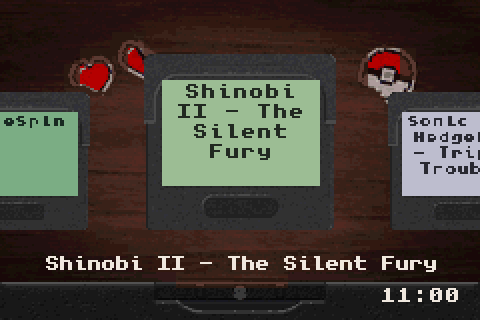
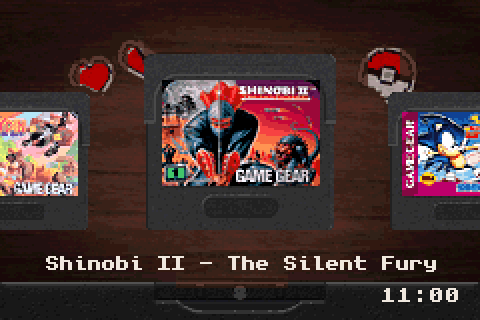
Docs: README as an introduction, details moved to GUIDE.md
The README now introduces the project with labelled screenshots and a
demo animation. Install, usage, other systems, label art, troubleshooting,
the X5 Mini build and how it works live in GUIDE.md.

Claude-Session: https://claude.ai/code/session_01AfjQDoYJ7yx8TtMebTFXRf

Changed region(s): [[0.3125, 0.25, 0.6875, 0.5938], [0.8125, 0.3438, 1.0, 0.625], [0.0, 0.3438, 0.1875, 0.625]]

diff --git a/README.md b/README.md
@@ -1,109 +1,74 @@
-# EverFront
+<h1 align="center">EverFront</h1>
 
-A themeable game shelf for the **EverDrive GBA Pro**. EverFront runs from the SD card as a normal `.gba` file and boots your games with their saves, clock, sensors and the L+R in-game menu. It has two themes, **Slot** and **Shelf**. Besides GBA games it has shelves for **Game Boy, Game Boy Color, NES, Master System and Game Gear**, which run through emulators you supply.
+<p align="center">
+  <strong>Your game collection, back on the shelf.</strong><br>
+  A beautiful, themeable game library for the EverDrive GBA Pro.
+</p>
 
-| Slot theme | Shelf theme |
-| --- | --- |
-| ![Slot theme, GBA shelf](docs/images/slot-gba.png) | ![Shelf theme, GBA shelf](docs/images/shelf-gba.png) |
-| ![Slot theme, NES shelf](docs/images/slot-nes.png) | ![Shelf theme, Game Boy shelf](docs/images/shelf-gb.png) |
+<p align="center">
+  <img src="docs/images/demo.gif" alt="Scrolling through the shelf and starting a game" width="480">
+</p>
 
-*Shown with plain labels. With your own label packs, each cart shows its real label (see [Label art](docs/labels.md)).*
+<p align="center">
+  <a href="../../releases/latest"><strong>Download</strong></a> ·
+  <a href="GUIDE.md"><strong>User guide</strong></a> ·
+  <a href="CHANGELOG.md">What's new</a>
+</p>
 
-**[Download the latest release](../../releases/latest)** · [Changelog](CHANGELOG.md) · [Label art](docs/labels.md) · [Building from source](docs/building.md)
+---
 
-There is also an early test build for the **EverDrive GBA X5 Mini** (GBA games only, saves off for now). It's in each release as `everfront-mini-<version>.zip`.
+EverFront replaces the EverDrive's list of file names with something that feels like owning the games. Flick through your carts, see their labels, pick one, and watch it drop into the console. Then play, with everything working the way it always has.
 
-## What you need
+## Two themes, one collection
 
-| Item | Requirement |
-| --- | --- |
-| Cart | An EverDrive GBA Pro. The X5 Mini has its own test build (see above). |
-| Firmware | 26.0127 for the L+R in-game menu. Other versions still launch games, but the in-game menu stays off. Tested on 26.0127 only. |
-| SD card | Already set up for the EverDrive (the `edgba` folder from krikzz's firmware is on it). |
-| Games | Unzipped `.gba` files in a folder named `Game Boy Advance` or `GBA` at the card's root (or at the root itself). Up to 3000 games; subfolders are not searched. |
-| Other systems (optional) | An emulator per system in `edgba/edapp/<system>/`, plus a games folder for it (see [Other systems](#other-systems)). |
+| **Slot** | **Shelf** |
+| :---: | :---: |
+| ![Slot theme](docs/images/slot-gba.png) | ![Shelf theme](docs/images/shelf-gba.png) |
+| Detailed carts on warm wood, based on the much-loved [Slot](https://github.com/BrandonKowalski/slot) front end. | A clean, flat-shaded shelf with a console waiting underneath. |
 
-To check the firmware, open the EverDrive menu and look at Device Info.
+Switch between them any time from the settings menu.
 
-## Install
+## More than Game Boy Advance
 
-1. Download `everfront-<version>.zip` from the [latest release](../../releases/latest).
-2. Put the EverDrive's SD card in your computer.
-3. Unzip the release and copy the `everfront` folder from its `SD card` folder to the root of the card, next to `edgba`.
-4. Make sure your games are in `Game Boy Advance` or `GBA` at the root of the card.
-5. Optional: add emulators and games for other systems ([Other systems](#other-systems)) and your label packs ([Label art](docs/labels.md)).
-6. Put the card back in the cart and switch on.
-7. In the EverDrive menu, open `everfront`, select `everfront.gba` and press A:
-   - **Start Game** starts EverFront this once.
-   - **Start Mode-A** starts it now and straight away at every power-up.
+Add an emulator and EverFront gives each system its own shelf, with its own carts. Press Up or Down to move between them.
 
-To update, copy the new `everfront` folder over the old one. Saves, favourites and settings are kept.
+| | | |
+| :---: | :---: | :---: |
+| ![Game Boy Color](docs/images/slot-gbc.png) | ![NES](docs/images/slot-nes.png) | ![Game Gear](docs/images/slot-gg.png) |
+| **Game Boy Color** | **NES** | **Game Gear** |
+| ![Game Boy](docs/images/shelf-gb.png) | ![NES on Shelf](docs/images/shelf-nes.png) | ![Master System](docs/images/shelf-sms.png) |
+| **Game Boy** | **NES** (Shelf theme) | **Master System** |
 
-## Using it
+> [!NOTE]
+> **About the labels in these pictures:** EverFront doesn't come with label art or emulators. You add labels from your own scans with the included tool, and until you do, each cart shows a tidy plain label with the game's name. The [user guide](GUIDE.md#label-art) walks you through it.
 
-| Button | What it does |
-| --- | --- |
-| Left / Right | One cart along; hold to scroll faster. The shelf wraps from the last game to the first. |
-| L / R | Five carts along |
-| Up / Down | Next or previous shelf: GBA, Game Boy, Game Boy Color, NES, Master System, Game Gear (only those with games and an emulator) |
-| A | Put the cart in the slot and start the game |
-| SELECT | Add the game to your favourites or take it off (favourites are marked with a `*`) |
-| START | Settings: Theme, Show (all games, favourites or recently played), Clock on or off, Show log, Close |
-| B | Back to the shelf after an error message, or close the log or Settings |
-| L + R in a GBA game | The EverDrive's in-game menu: save and load states, reset, exit |
+## What you get
 
-Saves work exactly as with the EverDrive menu: they live in `edgba/gamedata`, so a game started from either menu sees the same save. Exit Game in the in-game menu returns to the EverDrive menu, not to EverFront. Boktai's solar sensor and tilt or gyro games (Yoshi Topsy-Turvy, WarioWare Twisted) use the cart's own sensors, as they do from the EverDrive menu.
+- 🎮 **Your games as carts.** Real cart shapes for every system, with your own label art on them.
+- 🎨 **Two themes.** Slot and Shelf, switchable in seconds.
+- 📚 **Six systems.** Game Boy Advance, Game Boy, Game Boy Color, NES, Master System and Game Gear.
+- ⭐ **Favourites and recently played.** Mark the games you love and jump back into what you played last.
+- 💾 **Nothing lost.** Saves, the real-time clock, Boktai's solar sensor, tilt games and the EverDrive's in-game menu all work as they do from the EverDrive's own menu. Your saves are shared between the two.
+- ⚡ **Straight to your shelf.** Set it up once and your EverDrive powers on directly into EverFront.
+- 🗂 **Big libraries welcome.** Up to 3000 GBA games.
 
-## Other systems
+## Get started
 
-EverFront includes no emulators. Each system uses the emulator the EverDrive menu would use, one `.gba` per folder (or one named `app.gba`). An optional `config.txt` beside it is read as the EverDrive menu reads it.
+1. **[Download the latest release](../../releases/latest)** and unzip it.
+2. Copy the `everfront` folder onto your EverDrive's SD card.
+3. Start `everfront.gba` from the EverDrive menu.
 
-| System | Emulator folder | Example emulator | Games folder | Files |
-| --- | --- | --- | --- | --- |
-| Game Boy | `edgba/edapp/gb/` | Goomba | `Game Boy` or `GB` | `.gb` |
-| Game Boy Color | `edgba/edapp/gbc/` | Goomba Color | `Game Boy Color` or `GBC` | `.gbc` and `.gb` |
-| NES | `edgba/edapp/nes/` | PocketNES | `NES` or `Nintendo` | `.nes` |
-| Master System | `edgba/edapp/sms/` | SMSAdvance | `Master System` or `SMS` | `.sms` |
-| Game Gear | `edgba/edapp/gg/` | SMSAdvance | `Game Gear` or `GG` | `.gg` |
+That's all it takes. The **[user guide](GUIDE.md)** covers everything else: the buttons, adding other systems, making labels, and what to do if something isn't right.
 
-A shelf appears when its system has both an emulator and games. In these games L+R opens the emulator's own menu, not the EverDrive's. Its Exit restarts the game, so you leave an emulated game by switching off.
+> [!TIP]
+> **Have an EverDrive GBA X5 Mini?** There's an early test build for it in each release. See [the guide](GUIDE.md#everdrive-gba-x5-mini).
 
-> [!IMPORTANT]
-> **Saving in emulated games:** the emulators only write a game's save to the cart when you open their menu (L+R) or use Exit there. Before you switch off, press L+R so the save is written, then power off. Switching straight off loses what you saved since.
+## Thanks
 
-## Label art
+EverFront stands on other people's work:
 
-Without label packs, every cart shows a plain coloured label with the game's name. Label packs are built on a computer from your own label scans. They're the publishers' artwork, so none are included. See **[docs/labels.md](docs/labels.md)** for the steps, every system's pack names and sizes, and options for matching renamed roms.
+- **[Slot](https://github.com/BrandonKowalski/slot)** by Brandon Kowalski, with art by [Markus](https://github.com/MarkusMaribu). The Slot theme is built from their art, with their blessing.
+- **krikzz**, maker of the EverDrive, for publishing the cart's drivers and giving the project his blessing. EverFront is not made or supported by him.
+- **Nelynes** for EverFront and the NES, Master System and Game Gear cart art.
 
-## Known limits
-
-- **Exit Game** goes back to the EverDrive menu, not to the shelf.
-- **Emulated games** have no EverDrive in-game menu (the emulator's menu replaces it), and you leave them by switching off. Open their menu first so the save is written.
-- **Cheats** are not supported.
-- **Games:** one folder per system, no zips.
-- **Firmware:** the in-game menu needs firmware 26.0127. A firmware update may turn it off until EverFront is updated too.
-
-## Troubleshooting
-
-| What you see | What to do |
-| --- | --- |
-| "Theme file missing" | `themes/slot.thm` is not in `everfront/themes`. Copy the `themes` folder from the zip again. |
-| "Theme file: wrong format" or another "Theme…" message | The theme file is damaged or from a different version. Copy it again from the same zip as the `.gba`. |
-| "NO GAMES FOUND" | No games in `Game Boy Advance`, `GBA` or the root. Check the folder name and that the games are unzipped. |
-| A system's shelf is missing | Its emulator isn't in `edgba/edapp/<system>/`, or its games folder is empty or named differently. |
-| Plain coloured labels | No label pack for this theme and system, or the scans' names don't match the roms. Rebuild the pack, with `--alias` for renamed roms. |
-| An emulated game lost its progress | It was switched off without opening the emulator's menu first (see [Other systems](#other-systems)). |
-| A game won't start, or an error after A | Press B to get back. Try the game from the EverDrive menu to rule out the rom itself. |
-| L+R does nothing in a GBA game | The firmware isn't 26.0127, so the in-game menu is off. |
-
-EverFront writes a log to `everfront/log.txt` on the card. Please attach it to any [issue](../../issues) you open.
-
-## Credits
-
-- **EverFront** by Nelynes, under the [GNU GPL v3.0](LICENSE).
-- **Slot theme art** from [Slot](https://github.com/BrandonKowalski/slot) by Brandon Kowalski, with art by [Markus](https://github.com/MarkusMaribu), via [slotPlus](https://github.com/nelynes/slotPlus) (GPL-3.0). Used with their blessing.
-- **NES, Master System and Game Gear cart art** (Slot theme) by Nelynes.
-- **EverDrive drivers** by krikzz ([gba-pro-pub](https://github.com/krikzz/gba-pro-pub), [gba-ed-pub](https://github.com/krikzz/gba-ed-pub)), MIT. krikzz has given the project his blessing; EverFront is not made or supported by him.
-- **FatFs** by ChaN (Mini build). **Unscii 8** font by viznut, public domain.
-
-EverFront contains none of the EverDrive menu's code. It starts games the same way the stock menu does, and it reads the in-game menu from the cart's own firmware at run time. Full credits are in [NOTICE.txt](NOTICE.txt).
+EverFront is free and open source under the [GPL-3.0](LICENSE). Full credits are in [NOTICE.txt](NOTICE.txt). Curious how it works, or want to build it yourself? See [Building from source](docs/building.md).

diff --git a/GUIDE.md b/GUIDE.md
@@ -1,0 +1,179 @@
+# EverFront user guide
+
+Everything you need to install EverFront, use it, add other systems and make label art. For a quick look at what EverFront is, see the [README](README.md).
+
+**Contents**
+- [What you need](#what-you-need)
+- [Install](#install)
+- [Using it](#using-it)
+- [Other systems](#other-systems)
+- [Label art](#label-art)
+- [Known limits](#known-limits)
+- [Troubleshooting](#troubleshooting)
+- [EverDrive GBA X5 Mini](#everdrive-gba-x5-mini)
+- [How it works](#how-it-works)
+
+## What you need
+
+| Item | Requirement |
+| --- | --- |
+| Cart | An EverDrive GBA Pro. The X5 Mini has its own test build (see [EverDrive GBA X5 Mini](#everdrive-gba-x5-mini)). |
+| Firmware | 26.0127 for the L+R in-game menu. Other versions still launch games, but the in-game menu stays off. Tested on 26.0127 only. |
+| SD card | Already set up for the EverDrive (the `edgba` folder from krikzz's firmware is on it). |
+| Games | Unzipped `.gba` files in a folder named `Game Boy Advance` or `GBA` at the card's root (or at the root itself). Up to 3000 games; subfolders are not searched. |
+| Other systems (optional) | An emulator per system in `edgba/edapp/<system>/`, plus a games folder for it (see [Other systems](#other-systems)). |
+
+To check the firmware, open the EverDrive menu and look at Device Info.
+
+## Install
+
+1. Download `everfront-<version>.zip` from the [latest release](../../releases/latest).
+2. Put the EverDrive's SD card in your computer.
+3. Unzip the release and copy the `everfront` folder from its `SD card` folder to the root of the card, next to `edgba`.
+4. Make sure your games are in `Game Boy Advance` or `GBA` at the root of the card.
+5. Optional: add emulators and games for other systems ([Other systems](#other-systems)) and your label packs ([Label art](#label-art)).
+6. Put the card back in the cart and switch on.
+7. In the EverDrive menu, open `everfront`, select `everfront.gba` and press A:
+   - **Start Game** starts EverFront this once.
+   - **Start Mode-A** starts it now and straight away at every power-up.
+
+To update, copy the new `everfront` folder over the old one. Saves, favourites and settings are kept.
+
+## Using it
+
+| Button | What it does |
+| --- | --- |
+| Left / Right | One cart along; hold to scroll faster. The shelf wraps from the last game to the first. |
+| L / R | Five carts along |
+| Up / Down | Next or previous shelf: GBA, Game Boy, Game Boy Color, NES, Master System, Game Gear (only those with games and an emulator) |
+| A | Put the cart in the slot and start the game |
+| SELECT | Add the game to your favourites or take it off (favourites are marked with a `*`) |
+| START | Settings: Theme, Show (all games, favourites or recently played), Clock on or off, Show log, Close |
+| B | Back to the shelf after an error message, or close the log or Settings |
+| L + R in a GBA game | The EverDrive's in-game menu: save and load states, reset, exit |
+
+Saves work exactly as with the EverDrive menu: they live in `edgba/gamedata`, so a game started from either menu sees the same save. Exit Game in the in-game menu returns to the EverDrive menu, not to EverFront. Boktai's solar sensor and tilt or gyro games (Yoshi Topsy-Turvy, WarioWare Twisted) use the cart's own sensors, as they do from the EverDrive menu.
+
+## Other systems
+
+EverFront includes no emulators. Each system uses the emulator the EverDrive menu would use, one `.gba` per folder (or one named `app.gba`). An optional `config.txt` beside it is read as the EverDrive menu reads it.
+
+| System | Emulator folder | Example emulator | Games folder | Files |
+| --- | --- | --- | --- | --- |
+| Game Boy | `edgba/edapp/gb/` | Goomba | `Game Boy` or `GB` | `.gb` |
+| Game Boy Color | `edgba/edapp/gbc/` | Goomba Color | `Game Boy Color` or `GBC` | `.gbc` and `.gb` |
+| NES | `edgba/edapp/nes/` | PocketNES | `NES` or `Nintendo` | `.nes` |
+| Master System | `edgba/edapp/sms/` | SMSAdvance | `Master System` or `SMS` | `.sms` |
+| Game Gear | `edgba/edapp/gg/` | SMSAdvance | `Game Gear` or `GG` | `.gg` |
+
+A shelf appears when its system has both an emulator and games. In these games L+R opens the emulator's own menu, not the EverDrive's. Its Exit restarts the game, so you leave an emulated game by switching off.
+
+> [!IMPORTANT]
+> **Saving in emulated games:** the emulators only write a game's save to the cart when you open their menu (L+R) or use Exit there. Before you switch off, press L+R so the save is written, then power off. Switching straight off loses what you saved since.
+
+## Label art
+
+Each theme reads one label pack per system from the `everfront` folder on the SD card. You build the packs on a computer from your own label scans, with `make_pack.py` from the release's `label tools` folder. Scans are the publishers' artwork, so no packs are included with EverFront.
+
+### Build the packs
+
+1. Install [Python 3](https://www.python.org/downloads/), then run `pip install pillow`.
+2. Collect label scans as PNG files named like your roms, without the extension: `Metroid Fusion (USA).png` for `Metroid Fusion (USA).gba`. A scan named only by its title (`Metroid Fusion.png`) also matches. Keep each system's scans in its own folder.
+3. From the `label tools` folder, build each pack you want, using its name and size from the table below:
+
+   ```
+   python make_pack.py "C:\path\to\GBA Labels" labels.bin
+   python make_pack.py "C:\path\to\GBA Labels" labels-80x41.bin --size 80x41
+   python make_pack.py "C:\path\to\NES Labels" labels-nes.bin --size 43x65
+   python make_pack.py "C:\path\to\NES Labels" labels-nes-s.bin --size 35x55
+   ```
+
+4. Copy the `.bin` files into `everfront` on the card.
+
+### Pack names and sizes
+
+| System | Slot pack | Slot size | Shelf pack | Shelf size |
+| --- | --- | --- | --- | --- |
+| GBA | `labels.bin` | 88x45 (the default) | `labels-80x41.bin` | 80x41 |
+| Game Boy | `labels-gb.bin` | 62x55 | `labels-gb-s.bin` | 53x46 |
+| Game Boy Color | `labels-gbc.bin` | 62x56 | `labels-gbc-s.bin` | 53x47 |
+| NES | `labels-nes.bin` | 43x65 | `labels-nes-s.bin` | 35x55 |
+| Master System | `labels-sms.bin` | 106x15 | `labels-sms-s.bin` | 88x13 |
+| Game Gear | `labels-gg.bin` | 79x53 | `labels-gg-s.bin` | 66x46 |
+
+A pack built at the wrong size is ignored, and those carts show plain labels.
+
+### Matching scans to roms
+
+| Option | What it does |
+| --- | --- |
+| `--also <folder>` | Adds scans from another folder where the main one has none. Use your Game Boy scans for the GBC packs, since the GBC shelf also runs `.gb` games. Can be given more than once. |
+| `--alias <file>` | Lines like `Duck Tales = DuckTales (USA)` (rom name = scan name, no extensions) for roms whose names don't match a scan: hacks, translations, renames. See `aliases-example.txt`. |
+| `--dat <file>` | A GBA No-Intro or libretro `.dat` that lists serials. GBA labels then also match by the game code in each rom's header. |
+| `--review <sheet.png>` | Saves a contact sheet of the converted labels to check them. |
+| `--cache <folder>` | Keeps converted labels, so later runs only convert new or changed scans. |
+
+Run `python make_pack.py` with no arguments to see every option.
+
+Example: a GBC pack with GB scans as a fallback, and aliases for two hacks:
+
+```
+python make_pack.py "C:\Scans\GBC" labels-gbc.bin --size 62x56 --also "C:\Scans\GB" --alias my-aliases.txt
+```
+
+with `my-aliases.txt`:
+
+```
+Metroid II - Color (ejrtq) v1.3 = Metroid II - Return of Samus (World)
+Super Mario Land 2 DX = Super Mario Land 2 - 6 Golden Coins (USA, Europe) (Rev 2)
+```
+
+## Known limits
+
+- **Exit Game** goes back to the EverDrive menu, not to the shelf.
+- **Emulated games** have no EverDrive in-game menu (the emulator's menu replaces it), and you leave them by switching off. Open their menu first so the save is written.
+- **Cheats** are not supported.
+- **Games:** one folder per system, no zips.
+- **Firmware:** the in-game menu needs firmware 26.0127. A firmware update may turn it off until EverFront is updated too.
+
+## Troubleshooting
+
+| What you see | What to do |
+| --- | --- |
+| "Theme file missing" | `themes/slot.thm` is not in `everfront/themes`. Copy the `themes` folder from the zip again. |
+| "Theme file: wrong format" or another "Theme…" message | The theme file is damaged or from a different version. Copy it again from the same zip as the `.gba`. |
+| "NO GAMES FOUND" | No games in `Game Boy Advance`, `GBA` or the root. Check the folder name and that the games are unzipped. |
+| A system's shelf is missing | Its emulator isn't in `edgba/edapp/<system>/`, or its games folder is empty or named differently. |
+| Plain coloured labels | No label pack for this theme and system, or the scans' names don't match the roms. Rebuild the pack, with `--alias` for renamed roms. |
+| An emulated game lost its progress | It was switched off without opening the emulator's menu first (see [Other systems](#other-systems)). |
+| A game won't start, or an error after A | Press B to get back. Try the game from the EverDrive menu to rule out the rom itself. |
+| L+R does nothing in a GBA game | The firmware isn't 26.0127, so the in-game menu is off. |
+
+EverFront writes a log to `everfront/log.txt` on the card. Please attach it to any [issue](../../issues) you open.
+
+## EverDrive GBA X5 Mini
+
+Each release also has `everfront-mini-<version>.zip`, an early test build for the X5 Mini. It is behind the Pro version:
+
+| | Pro | X5 Mini test build |
+| --- | --- | --- |
+| Shelf, both themes, GBA labels | Yes | Yes |
+| GBA games start | Yes | Yes |
+| Saves | Yes | **Not yet: games run without saving** |
+| Other systems' shelves | Yes | Not yet |
+| Remembers favourites, recent games and settings | Yes | Not yet (it doesn't write to the SD card) |
+| Game limit | 3000 | 600 |
+
+It never writes to the SD card or the cart's save memory, so your existing saves are safe. Install it the same way, but start `everfront-mini.gba`. The zip's `README-MINI-TEST.txt` lists what's worth testing and reporting.
+
+## How it works
+
+EverFront is an ordinary GBA program that the EverDrive loads like a game. A few details explain its behaviour:
+
+- **Starting games.** EverFront starts a game the same way the EverDrive's own menu does: it loads the rom, works out the save type, sets up the clock and sensors, and hands over. That's why saves, the clock and the in-game menu behave the same, and why saves are shared with the EverDrive menu (`edgba/gamedata`).
+- **The in-game menu** belongs to the EverDrive's firmware. EverFront contains none of that code: it reads the menu from the cart's own firmware each time a game starts. This depends on the firmware's layout, so it is tied to firmware 26.0127. On any other version EverFront notices the mismatch and starts games without the in-game menu.
+- **Emulated systems** use the emulators the EverDrive menu uses, from `edgba/edapp/<system>/`. The emulators take over L+R for their own menus, which is why the EverDrive's in-game menu isn't available there.
+- **Themes** are files (`everfront/themes/*.thm`) holding all the art and layout, so the program itself stays tiny (about 44 KB).
+- **Settings and lists** are plain text files in `everfront`: `config.txt`, `favourites.txt`, `recent.txt` (with `-<system>` versions for the other shelves), and the log, `log.txt`.
+
+To build EverFront or make a theme, see [Building from source](docs/building.md).
